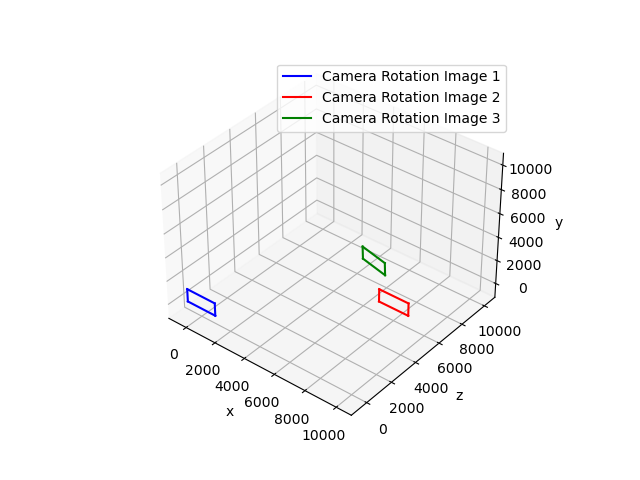
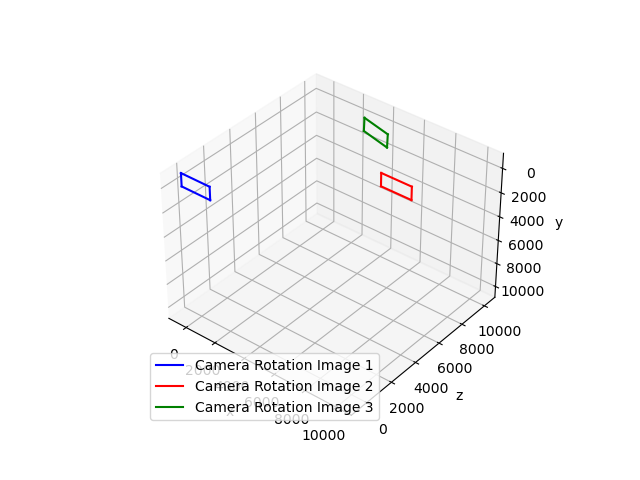
minor change, the direction of y axis is reversed to match thereference direction of the axis

diff --git a/sw/plotFunctions.py b/sw/plotFunctions.py
@@ -28,7 +28,9 @@ class plotFunctions:
         
         ax.set_xlim(xMin-xDiff/10, xMax+xDiff/10 )
         ax.set_ylim(zMin-zDiff/10, zMax+zDiff/10 )
-        ax.set_zlim(yMin-yDiff/10, yMax+yDiff/10 )        
+# Changing the direction of the axis        
+        # ax.set_zlim(yMin-yDiff/10, yMax+yDiff/10 )
+        ax.set_zlim(yMax+yDiff/10, yMin-yDiff/10 )             
 
         for i in range(np.size(tMatrix,1)):
             
@@ -87,7 +89,9 @@ class plotFunctions:
         
         ax.set_xlim(pMin-pDiff/10, pMax+pDiff/10 )
         ax.set_ylim(pMin-pDiff/10, pMax+pDiff/10 )
-        ax.set_zlim(pMin-pDiff/10, pMax+pDiff/10 )    
+# Changing the direction of the axis        
+        # ax.set_zlim(pMin-pDiff/10, pMax+pDiff/10 ) 
+        ax.set_zlim(pMax+pDiff/10, pMin-pDiff/10 )  
         
         
         for i in range(np.size(tMatrix,1)):
